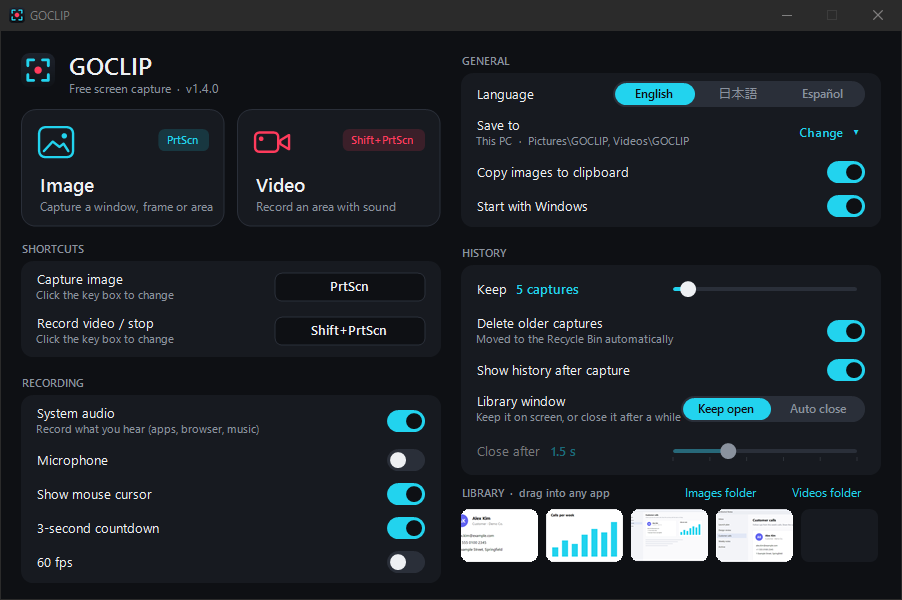
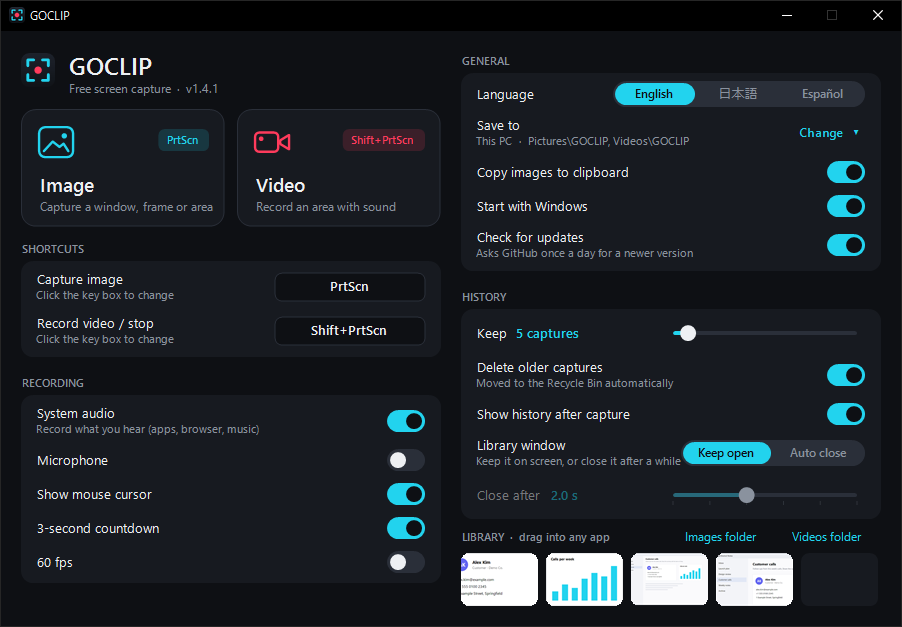
GOCLIP 1.4.1 - update notice

diff --git a/README.md b/README.md
@@ -84,7 +84,7 @@ Windows 10 (version 2004 or later) or Windows 11, 64‑bit. Uses the H.264/AAC e
 
 ## Privacy
 
-GOCLIP runs entirely on your PC. It sends nothing anywhere unless you choose to share.
+GOCLIP runs entirely on your PC. It sends nothing anywhere unless you choose to share. The only thing it looks up is whether a newer version exists: when it starts and once a day it reads the public latest-release page of this repository on GitHub (turn it off with **Check for updates**). When there is one, GOCLIP shows a notice and a link to the download page; it never downloads or installs anything by itself.
 
 ## License
 
